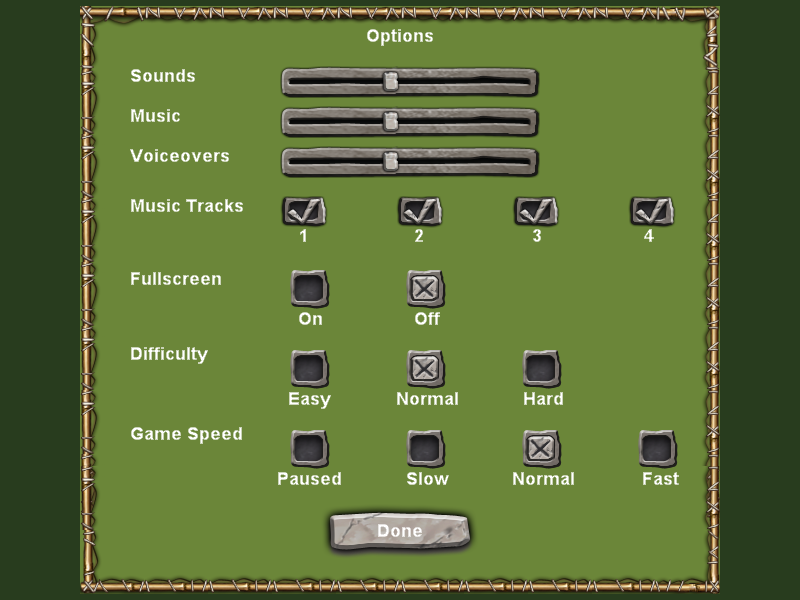
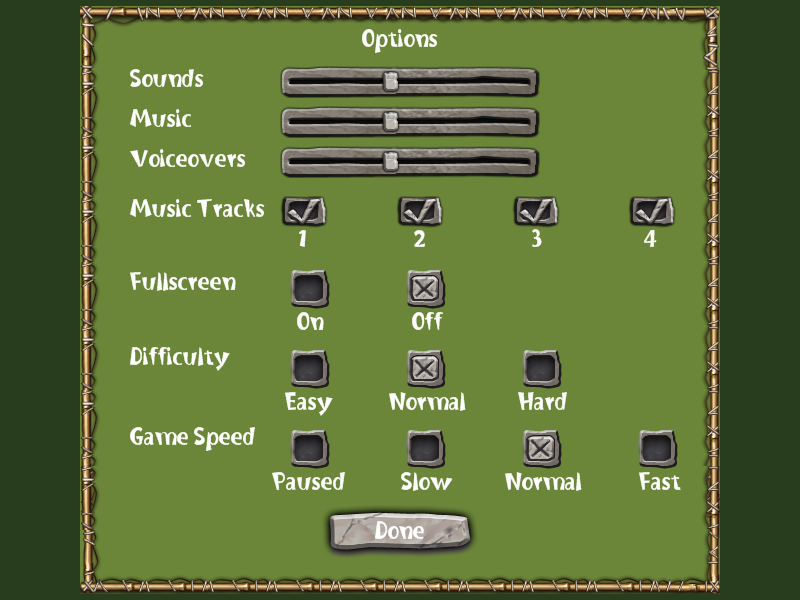
Difficulty Settings: previews in the dialog's own font; font and hit-area tests
The Options dialog's text is drawn with the graphics' default font, which the
game sets to ldwBurweed27 (VV4 0x44D3A3 -> 0x408430, glyph table 0x4BB068; VV5
0x4C8F08); the previews used ldwarialbold and are re-rendered with Burweed27.

Tests: the new row's heading and labels go through the same routines as the
stock Fullscreen heading and On / Off labels with the same colour (the stock
rows' global, VV4 0x4CCB08, VV5 0x4DC948) and font argument (0, the default);
every click at the centre and the four inclusive corners of each Fullscreen,
Difficulty and Game Speed button changes exactly that control, and one pixel
outside changes nothing, windowed and fullscreen, at the stock origin and a
shifted one. Both mutation-checked against the stock dialog.

diff --git a/tests/test_vv45_difficulty.py b/tests/test_vv45_difficulty.py
@@ -38,6 +38,7 @@ GAMES = {
         "draw": 0x41A5A0, "click": 0x41AD60,
         "get_string": 0x44D3D0, "image": 0x409960, "left": 0x409BD0, "centred": 0x409BE0,
         "fullscreen_read": 0x408360, "set_speed": 0x41ACB0, "sound": 0x448E10,
+        "toggle_query": 0x408350, "toggle_on": 0x409FB0, "toggle_off": 0x409FA0, "colour": 0x4CCB08,
         "difficulty": 0x170F4, "speed": 0x17110, "fullscreen": 0x1711D,
         "screen": (800, 600), "height": 0x24C, "stock_height": 0x1FC,
         "button": (158, 55, 0x23),          # main_wide_button2.png frame, gap under it
@@ -54,6 +55,7 @@ GAMES = {
         "draw": 0x41ADF0, "click": 0x41B5C0,
         "get_string": 0x4506D0, "image": 0x409B90, "left": 0x409EA0, "centred": 0x409EB0,
         "fullscreen_read": 0x408330, "set_speed": 0x41B500, "sound": 0x44C440,
+        "toggle_query": 0x408320, "toggle_on": 0x40A280, "toggle_off": 0x40A270, "colour": 0x4DC948,
         "difficulty": 0x17D54, "speed": 0x17D7C, "fullscreen": 0x17D89,
         "screen": (1024, 768), "height": 0x260, "stock_height": 0x1FC,
         "button": (140, 32, 0x0F),          # popup_button1.png frame, gap under it
@@ -68,7 +70,7 @@ GAMES = {
 }
 COLUMNS = (0xC8, 0x13C, 0x1B0, 0x224)    # the radio buttons' left edges
 RADIO = 61                                # radioblank.png / radioselected.png
-TEXT = 20                                 # ldwarialbold.png's height
+TEXT = 27                                 # ldwBurweed27.png's height: the dialog's default font
 SPEEDS = (0x3E7, 0xA, 0x6, 0x3)           # Paused, Slow, Normal, Fast, by column
 
 DIALOG = 0x51000000
@@ -274,6 +276,7 @@ class _Dialog:
         self.images: list[tuple[int, int, int]] = []
         self.texts: list[tuple[str, int, int, int]] = []
         self.speed_calls: list[int] = []
+        self.text_args: list[tuple[str, int, int, int]] = []
         mu = self.mu
         for base, size in ((DIALOG, 0x1000), (STATE, 0x20000), (GRAPHICS, 0x1000), (STRINGS, 0x1000)):
             mu.mem_map(base, size)
@@ -286,19 +289,28 @@ class _Dialog:
         mu.mem_write(g["fullscreen_read"], b"\x30\xC0\xC3")
         mu.mem_write(g["set_speed"], b"\xC2\x04\x00")
         mu.mem_write(g["sound"], b"\xC2\x04\x00")
+        mu.mem_write(g["toggle_query"], b"\x30\xC0\xC3")
+        mu.mem_write(g["toggle_on"], b"\xC3")
+        mu.mem_write(g["toggle_off"], b"\xC3")
         hooks = {g["image"]: self._image, g["left"]: self._left, g["centred"]: self._centred,
                  g["set_speed"]: self._speed}
         for address, fn in hooks.items():
             mu.hook_add(UC_HOOK_CODE, lambda uc, a, s, d, fn=fn: fn(), begin=address, end=address)
         width, height = g["screen"]
-        self.x = (width - 0x280) // 2
-        self.y = (height - self.height()) // 2
-        fields = {0x74: STATE, 0x78: self.x, 0x7C: self.x + 0x140, 0x80: self.y,
+        self.place((width - 0x280) // 2, (height - self.height()) // 2)
+        fields = {0x74: STATE,
                   0x8C: BLANK, 0x90: SELECTED, 0x94: SLIDER, 0x98: HANDLE, 0x9C: GRAPHICS, 0xA8: STRINGS,
                   0x64: 0x60, 0x68: 0x60, 0x6C: 0x60}
         for offset, value in fields.items():
             mu.mem_write(DIALOG + offset, struct.pack("<I", value))
         mu.mem_write(DIALOG + 0x60, b"\x01\x00\x00\x00")    # the Fullscreen row is shown
+
+    def place(self, x: int, y: int) -> None:
+        """Put the dialog's top-left at (x, y): the origin fields every stock
+        row, and the new one, are drawn and hit-tested from."""
+        self.x, self.y = x, y
+        for offset, value in ((0x78, x), (0x7C, x + 0x140), (0x80, y)):
+            self.mu.mem_write(DIALOG + offset, struct.pack("<i", value))
 
     def height(self) -> int:
         """The dialog's height as the constructor's `push` reads it; its
@@ -319,8 +331,9 @@ class _Dialog:
         self.images.append((image, x - self.x, y - self.y))
 
     def _text(self, kind):
-        text, x, y, _colour, _zero = self._args(5)
+        text, x, y, colour, font = self._args(5)
         self.texts.append((kind, text - TEXT_BASE, x, y - self.y))
+        self.text_args.append((kind, text - TEXT_BASE, colour, font))
 
     def _left(self):
         self._text("left")
@@ -352,6 +365,7 @@ class _Dialog:
     def draw(self):
         self.images.clear()
         self.texts.clear()
+        self.text_args.clear()
         self._call(self.g["draw"])
         return list(self.images), list(self.texts)
 
@@ -362,6 +376,24 @@ class _Dialog:
         self._call(self.g["click"], (2, self.x + x, self.y + y))
         self.mu.mem_write(DIALOG + 0x60, b"\x01")
         return list(self.speed_calls)
+
+    def press(self, x: int, y: int, fullscreen: int):
+        """A mouse press at (x, y) from the dialog's top-left, with the
+        Fullscreen row live and the game in fullscreen (1) or windowed (0).
+        Returns what changed: the level, the speed calls, the fullscreen
+        choice -- each None when untouched (sentinels are planted first)."""
+        level_field = STATE + self.g["difficulty"]
+        screen_field = STATE + self.g["fullscreen"]
+        self.mu.mem_write(level_field, struct.pack("<i", 0x5A5A))
+        self.mu.mem_write(screen_field, bytes([fullscreen]))
+        self.mu.mem_write(DIALOG + 0xAD, bytes([fullscreen]))
+        self.mu.mem_write(DIALOG + 0x60, b"\x01")
+        self.speed_calls.clear()
+        self._call(self.g["click"], (2, self.x + x, self.y + y))
+        level = struct.unpack("<i", self.mu.mem_read(level_field, 4))[0]
+        screen = self.mu.mem_read(screen_field, 1)[0]
+        return (None if level == 0x5A5A else level, list(self.speed_calls) or None,
+                None if screen == fullscreen else screen)
 
 
 @lru_cache(maxsize=None)
@@ -498,6 +530,70 @@ class ThePatchedDialog(unittest.TestCase):
             for mode in MODES:
                 with self.subTest(game=game, mode=mode):
                     self.check_draw(game, mode)
+
+    def test_the_new_row_draws_with_the_stock_rows_routines_font_and_colour(self):
+        # The heading goes through the same routine as the stock "Fullscreen"
+        # heading and the labels through the one "On" / "Off" use, with the
+        # same colour (the value of the stock rows' global at that moment) and
+        # the same font argument (0: the dialog's default, ldwBurweed27).
+        for game in GAMES:
+            g = GAMES[game]
+            s = g["strings"]
+            dialog = _patched_dialog(game, "collection_progression")
+            dialog.mu.mem_write(g["colour"], struct.pack("<I", 0x7F3C2A19))
+            dialog.set(1, 6)
+            dialog.draw()
+            args = {(kind, i): (colour, font) for kind, i, colour, font in dialog.text_args}
+            with self.subTest(game=game):
+                stock_heading = args[("left", s["Fullscreen"])]
+                stock_labels = {args[("centred", g["strings"]["Fullscreen"] + 1)],
+                                args[("centred", g["strings"]["Fullscreen"] + 2)]}
+                self.assertEqual(stock_heading, (0x7F3C2A19, 0))
+                self.assertEqual(stock_labels, {(0x7F3C2A19, 0)})
+                self.assertEqual(args[("left", s["Difficulty"])], stock_heading)
+                for word in ("Easy", "Normal", "Hard"):
+                    self.assertEqual(args[("centred", s[word])], stock_heading)
+                self.assertNotIn(("centred", s["Difficulty"]), args)
+                for word in ("Easy", "Hard"):
+                    self.assertNotIn(("left", s[word]), args)
+
+    def test_every_click_hits_exactly_the_control_drawn_there(self):
+        # Hit areas are the stock handler's own, computed from the same origin
+        # fields (+0x78, +0x80) as the drawing, so they follow the dialog
+        # wherever it is placed; the game hands its handler logical
+        # coordinates (800 x 600, 1024 x 768) windowed or fullscreen.
+        for game in GAMES:
+            g = GAMES[game]
+            dialog = _patched_dialog(game, "collection_progression")
+            stock_origin = (dialog.x, dialog.y)
+            controls = [("fullscreen", 1, COLUMNS[0], g["fullscreen_row"]),
+                        ("fullscreen", 0, COLUMNS[1], g["fullscreen_row"])]
+            controls += [("level", i, COLUMNS[i], g["row"]) for i in range(3)]
+            controls += [("speed", [SPEEDS[i]], COLUMNS[i], g["speed_row"]) for i in range(4)]
+            for origin in (stock_origin, (stock_origin[0] + 37, stock_origin[1] - 5)):
+                dialog.place(*origin)
+                for fullscreen in (0, 1):
+                    for kind, value, column, row in controls:
+                        left, top, right, bottom = column + 0xA, row + 0xA, column + 0x2F, row + 0x2F
+                        if kind == "fullscreen" and value == fullscreen:
+                            continue        # choosing the current state changes nothing to observe
+                        want = {"level": (value, None, None), "speed": (None, value, None),
+                                "fullscreen": (None, None, value)}[kind]
+                        inside = [((left + right) // 2, (top + bottom) // 2), (left, top), (right, top),
+                                  (left, bottom), (right, bottom)]
+                        for x, y in inside:
+                            with self.subTest(game=game, origin=origin, fullscreen=fullscreen,
+                                              control=(kind, str(value)), at=(x, y)):
+                                self.assertEqual(dialog.press(x, y, fullscreen), want)
+                        outside = [(left - 1, (top + bottom) // 2), (right + 1, (top + bottom) // 2),
+                                   ((left + right) // 2, top - 1), ((left + right) // 2, bottom + 1)]
+                        for x, y in outside:
+                            got = dialog.press(x, y, fullscreen)
+                            with self.subTest(game=game, origin=origin, fullscreen=fullscreen,
+                                              control=(kind, str(value)), outside=(x, y)):
+                                self.assertNotEqual(got, want)
+                                self.assertEqual(got, (None, None, None))
+            dialog.place(*stock_origin)
 
     def test_the_buttons_set_the_level_and_game_speed_in_every_mode(self):
         for game in GAMES:
